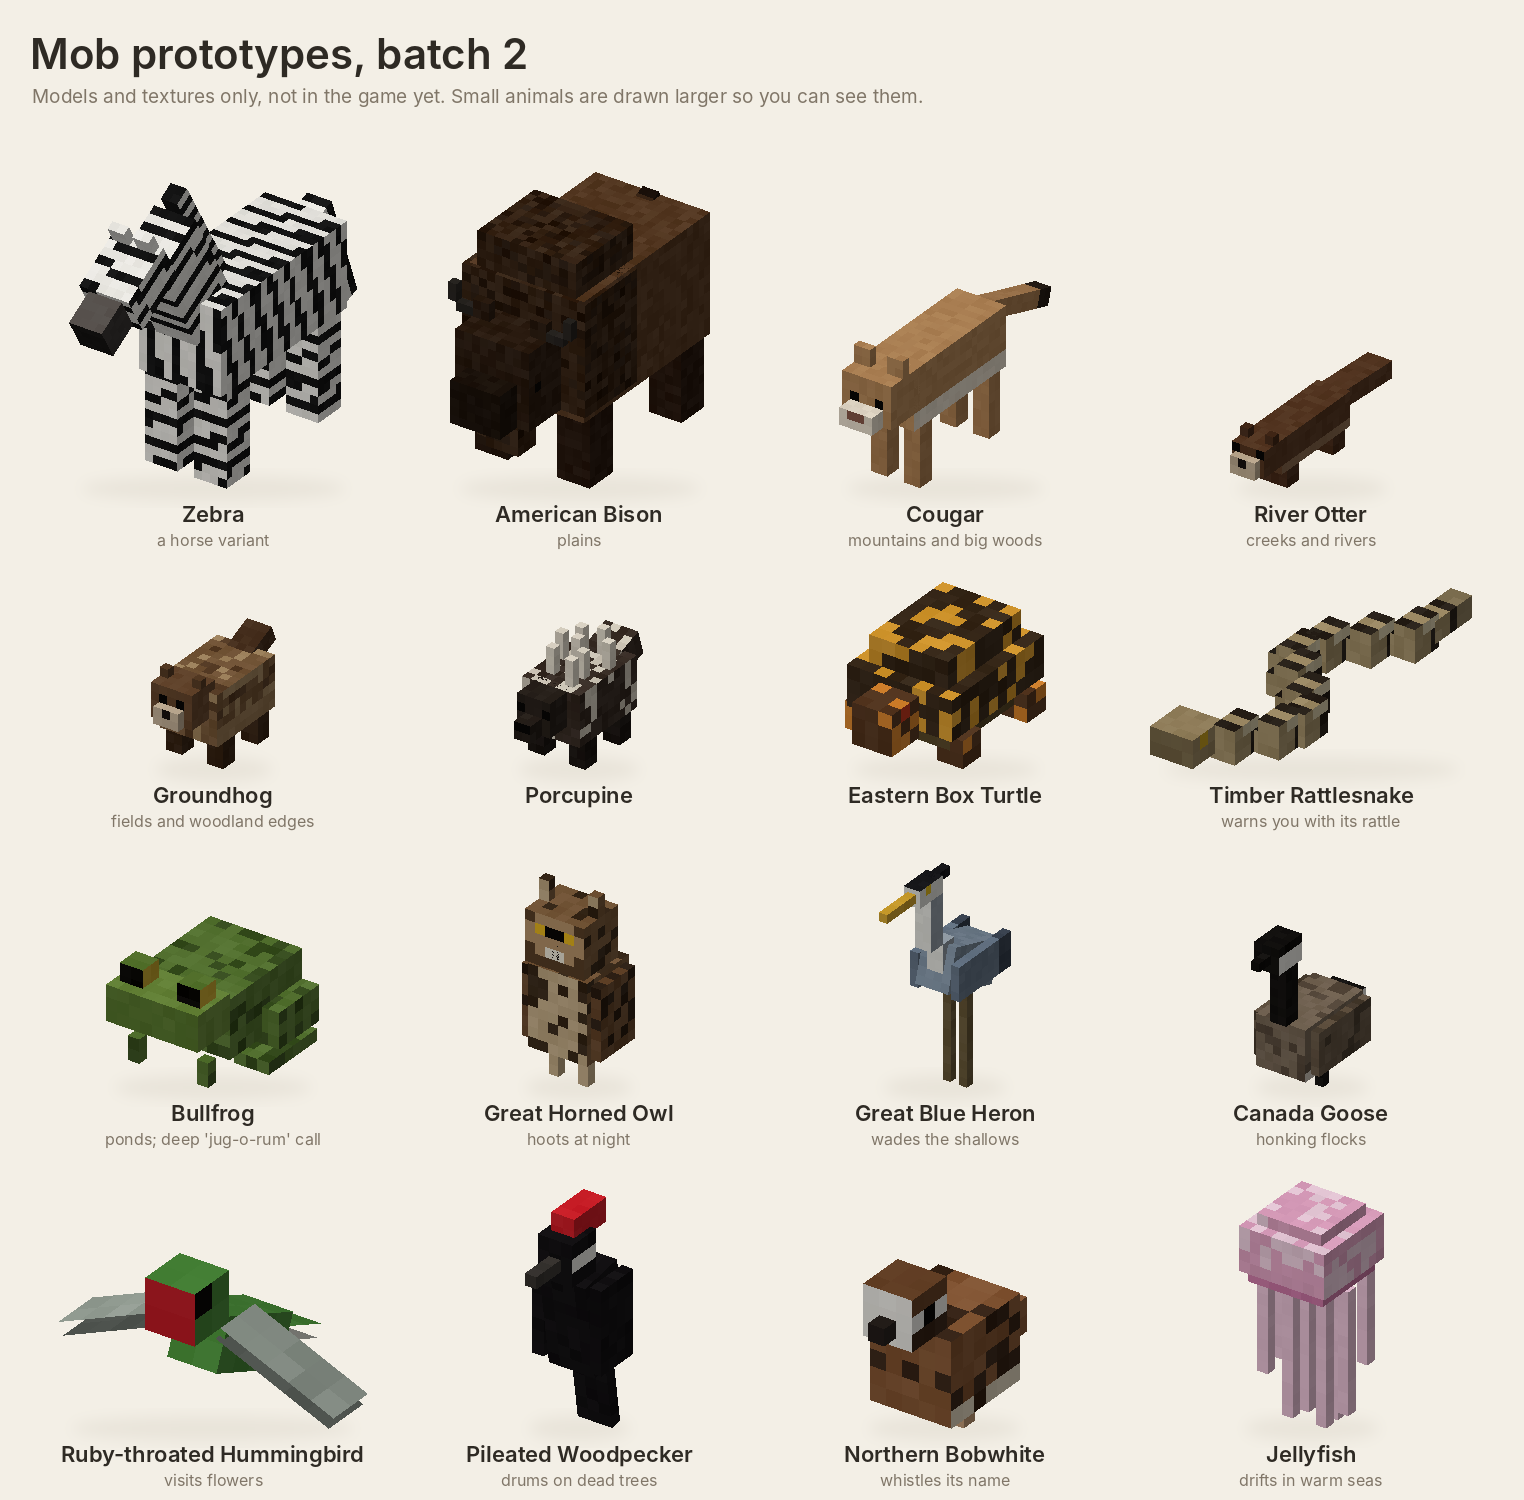
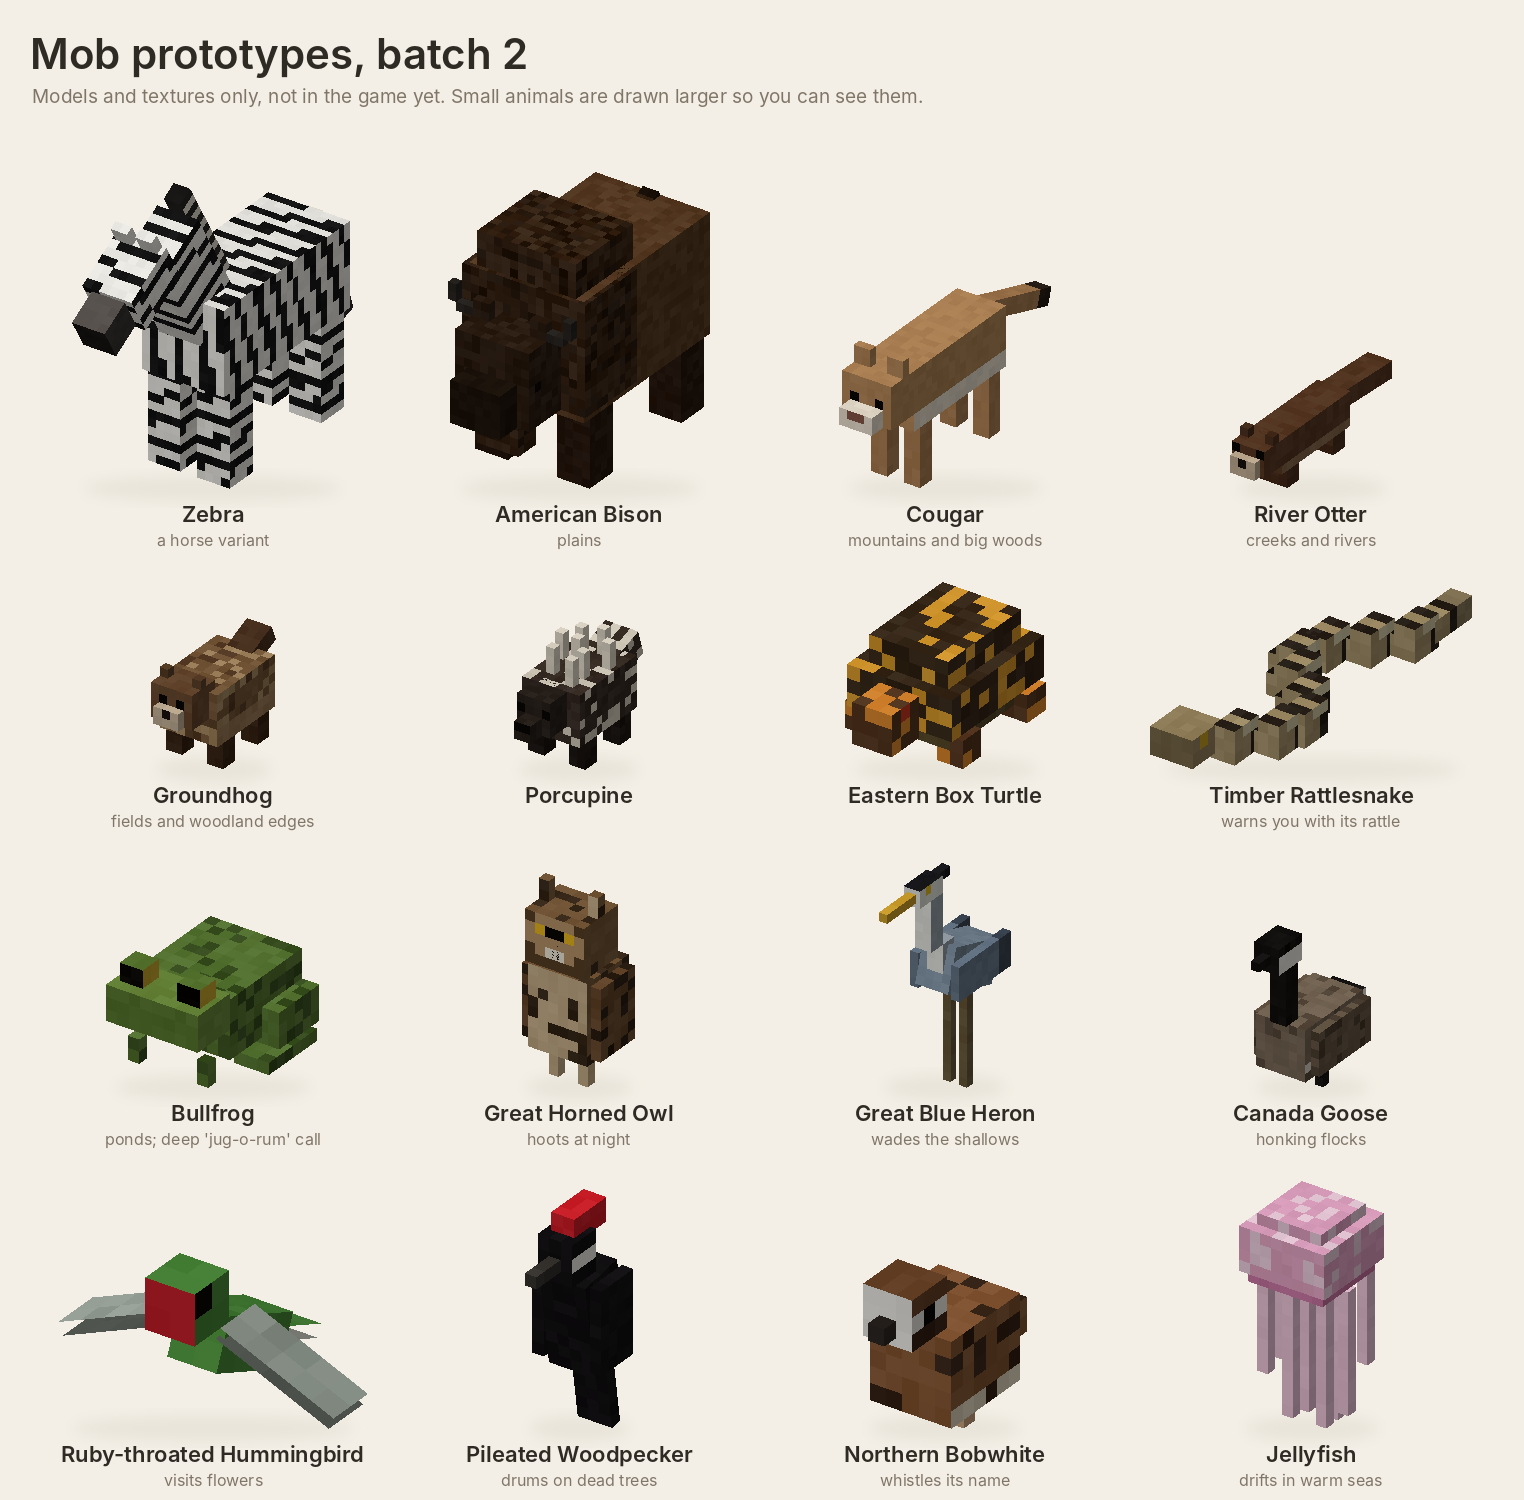
Prototype zebra: banded mane, striped tail dock with a black tuft
Claude-Session: https://claude.ai/code/session_01M5QtgiQGYPBXfdb72XCowG

diff --git a/tools/prototypes2.py b/tools/prototypes2.py
@@ -24,7 +24,8 @@ def equine():
             box("ear_r", (-2.5, -17, -3), (2, 2, 1), "ear"), box("ear_l", (0.5, -17, -3), (2, 2, 1), "ear", mirror=True)]
     ps = [part("body", (0, 8, 0), body, "body"),
           part("head", (0, 5, -9), head, "head", rot=(0.52, 0, 0)),
-          part("tail", (0, 4, 10.5), [box("tail", (-1.5, 0, 0), (3, 13, 3), "tail")], "tail", rot=(0.35, 0, 0))]
+          part("tail", (0, 4, 10.5), [box("dock", (-1, 0, -0.5), (2, 7, 2), "dock"),
+                                       box("tuft", (-1.5, 7, -1), (3, 7, 3), "tuft")], "tail", rot=(0.3, 0, 0))]
     for nm, sx, sz in [("leg_rf", -1, -1), ("leg_lf", 1, -1), ("leg_rb", -1, 1), ("leg_lb", 1, 1)]:
         ps.append(part(nm, (sx * 3, 13, sz * 8), [box("leg", (-2, 0, -2), (4, 11, 4), "leg", mirror=sx > 0)], nm))
     return ps
@@ -59,13 +60,17 @@ def zebra_paint(img, parts, seed=7):
                         n = r.randint(-5, 5)
                         px[fx + i, fy + j] = tuple(max(0, min(255, x + n)) for x in c) + (255,)
 STRIPES = ["#f2f0ea", "#161616"] * 8
+MANE_BANDS = ["#2a2826", "#e8e2d4"] * 8
 add("Zebra", "a horse variant", zebra, {
     "body": {"c": "#f2f0ea", "noise": 4, "rings": {"c": "#161616", "n": 7}},
     "mane": {"c": "#f2f0ea", "noise": 3, "side_rows": STRIPES, "front": "#f2f0ea"},
     "head": {"c": "#f2f0ea", "noise": 3, "side_rows": ["#f2f0ea", "#161616", "#f2f0ea", "#f2f0ea", "#161616"], "side_eyes": "#0a0a0a", "eye_row": 2},
     "snout": {"c": "#3a3634", "noise": 3, "top": "#5a5450", "front": "#1e1c1a"}, "ear": {"c": "#f2f0ea", "back": "#161616"},
-    "leg": {"c": "#f2f0ea", "noise": 3, "side_rows": STRIPES, "bottom": "#161616"}, "tail": {"c": "#f2f0ea", "tip": {"c": "#161616", "frac": 0.4}},
-    "mane2": {"c": "#161616", "noise": 3, "side_rows": STRIPES}})
+    "leg": {"c": "#f2f0ea", "noise": 3, "side_rows": STRIPES, "bottom": "#161616"},
+    # mane and tail: crisp, even bands (unlike the organic body stripes), a dark-tipped mane and a black tuft
+    "mane2": {"c": "#e8e2d4", "noise": 2, "side_rows": MANE_BANDS, "front": "#2a2826", "back": "#2a2826", "top": "#1a1816"},
+    "dock": {"c": "#e8e2d4", "noise": 2, "side_rows": MANE_BANDS, "front_map": ["cc", "dd", "cc", "dd", "cc", "dd", "cc"], "front_colors": {"c": "#e8e2d4", "d": "#2a2826"}},
+    "tuft": {"c": "#1a1816", "noise": 8, "speckle": {"c": "#3a3632", "p": 0.25}}})
 
 # ---- Bison: huge hump, shaggy front, short curved horns
 bison = quad((14, 14, 22), (4, 8), (9, 9, 7), snout=(6, 5, 3), ears=(2, 2), tail=(2, 6, 2, 0.4), head_up=-4,
